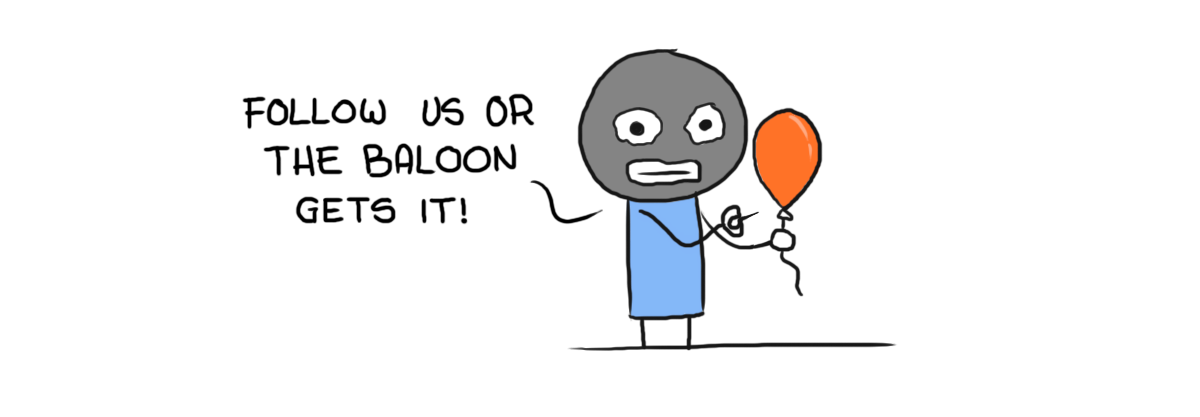
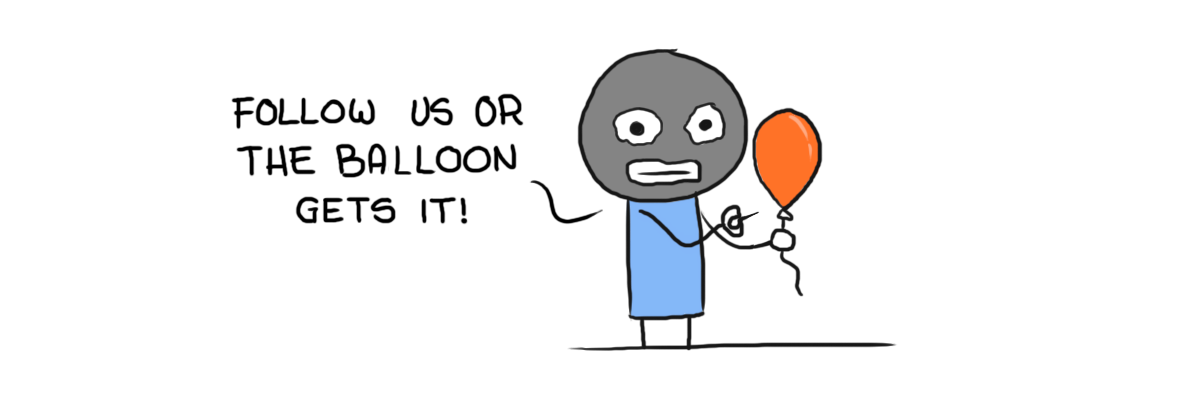
added adlitteram

Changed region(s): [[0.185, 0.2182, 0.4625, 0.3118], [0.185, 0.3429, 0.37, 0.4365]]

diff --git a/_posts/2017/2017-04-28-ad-litteram-23.md b/_posts/2017/2017-04-28-ad-litteram-23.md
@@ -1,0 +1,18 @@
+---
+layout: post
+title: AdLitteram 23
+date: 2017-04-28T00:00:00.000Z
+position: 50% 50%
+tags:
+  - adlitteram
+comments: true
+# reveal: escape character
+image: adlitteram/23-adlitteram.png
+published: true
+share: true
+---
+
+Welcome to AdLitteram. The challenge is to guess the programming term that is represented in the image. (use the commenting section if you think you know the answer)
+
+![AdLitteram #23]({{ site.url }}/assets/images/adlitteram/23-adlitteram.png "AdLitteram #23")
+
